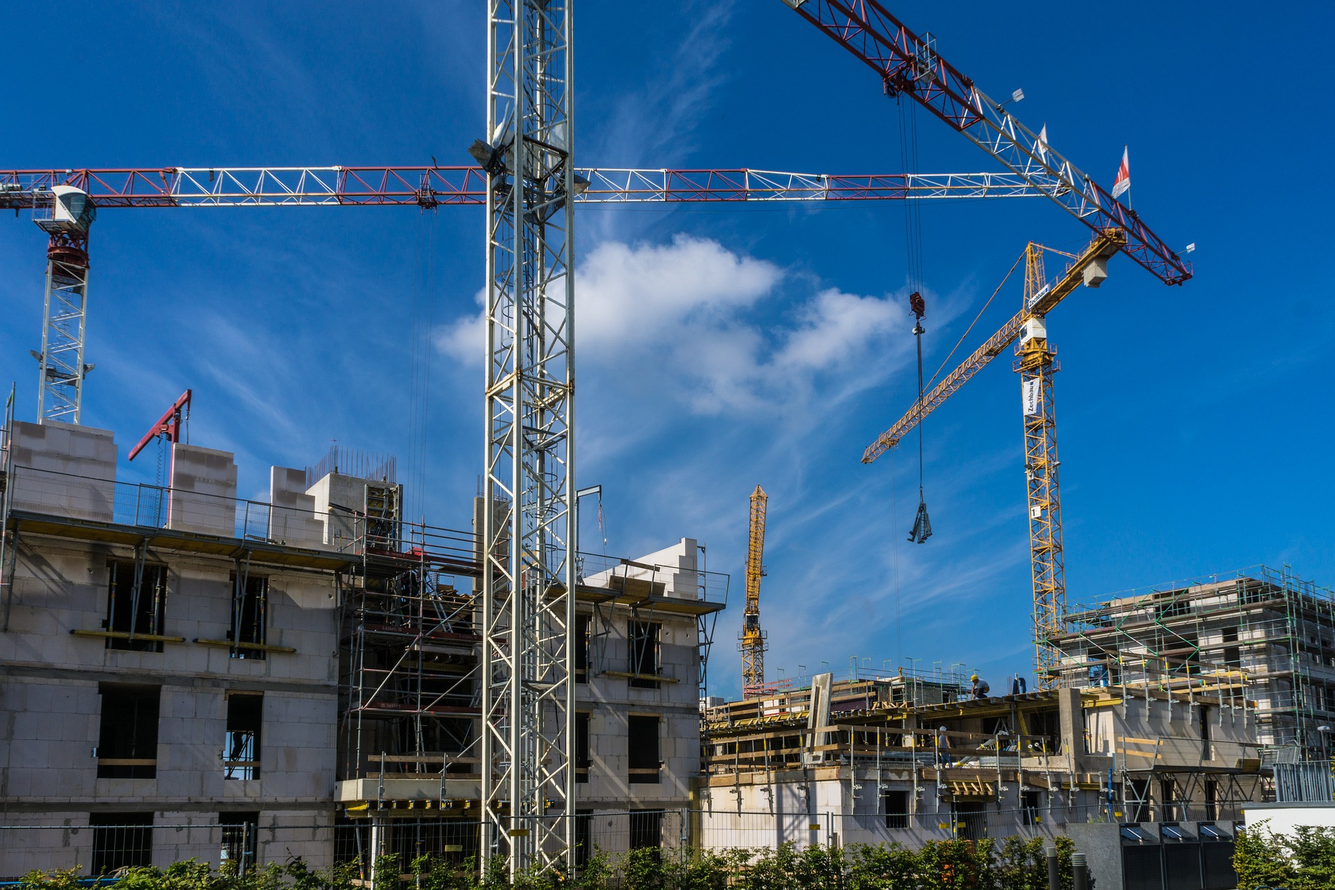
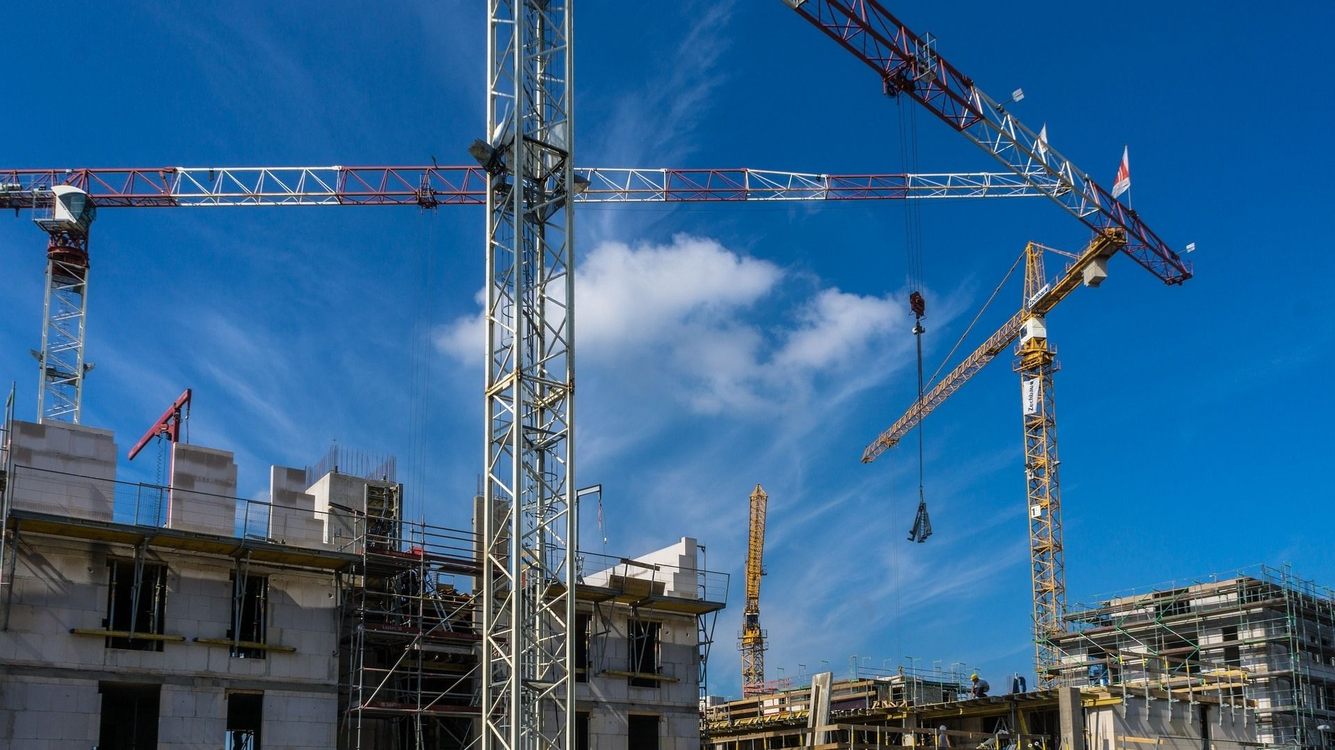
new index 2

diff --git a/index.html b/index.html
@@ -22,7 +22,7 @@
 		<section class="no-pad">
 				<div class="feature-box col-md-6">
 					<div class="background-image-holder">
-						<img alt="Slide Background" class="background-image" src="img/home%201.png">
+						<img alt="Slide Background" class="background-image" src="img/home%201.jpg">
 					</div>
 				
 					<div class="content">
@@ -34,7 +34,7 @@
 			
 				<div class="feature-box col-md-6">
 					<div class="background-image-holder overlay-light-gradient">
-						<img alt="Slide Background" class="background-image" src="img/home%202.png">
+						<img alt="Slide Background" class="background-image" src="img/home%202.jpg">
 					</div>
 				
 					<div class="content">
